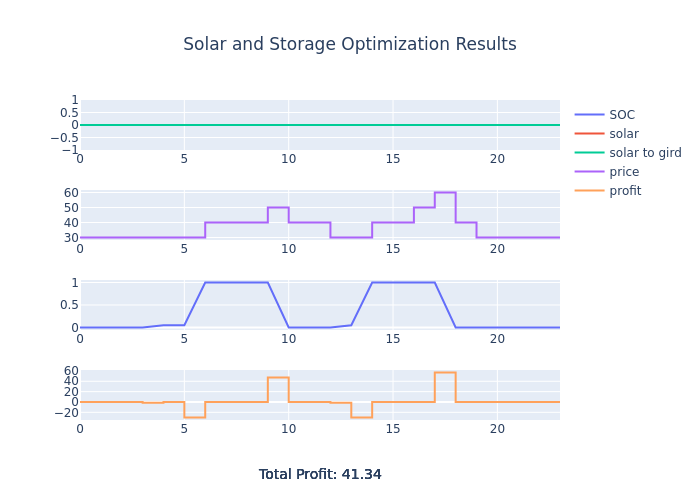
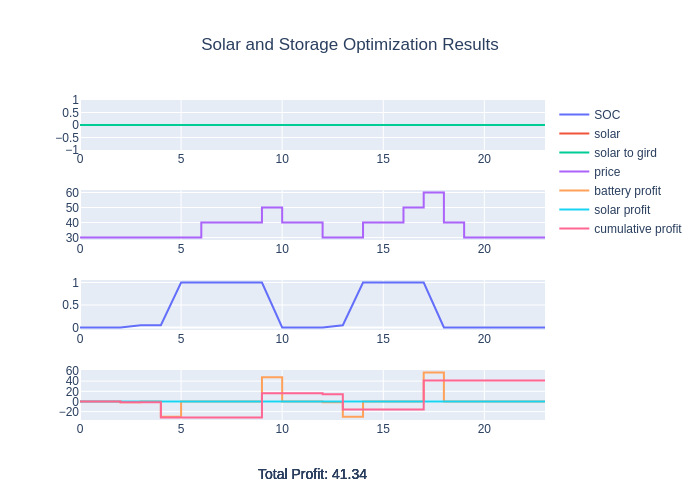
provide solar profit calc as well as display cumulative profit

diff --git a/solar_and_storage/solar_and_storage.py b/solar_and_storage/solar_and_storage.py
@@ -35,10 +35,10 @@ class SolarAndStorage:
         :param battery_capacity: the capacity of the battery [KWh]
         :param power_rating: the power raying of the battery [KW]
         :param battery_eta_discharge: the efficiency of the battery discharge,
-            should be between 0 and 1.
+            - should be between 0 and 1.
         :param battery_eta_charge: the efficiency of the battery charge,
-            should be between 0 and 1.  This only applies to grid power,
-            solar charging the battery is assumed to be 100% efficient.
+            - should be between 0 and 1, applies only to grid power.
+            - solar charging the battery is assumed to be 100% efficient.
         :param grid_connection_capacity: the amount of power that can be delivered to the grid
         """
         self.prob = None
@@ -169,16 +169,17 @@ class SolarAndStorage:
             self.battery_power_charge_cp_variable.value - self.power_discharge_cp_variable.value, 2
         )
         e_soc = np.round(self.battery_soc_cp_variable.value, 2)
-        profit = self.prices * (
+        battery_profit = self.prices * (
             self.power_discharge_cp_variable.value - self.battery_power_charge_cp_variable.value
         )
         solar_power_to_grid = self.solar_generation - self.power_solar_to_battery.value
+        solar_profit = self.prices * solar_power_to_grid
 
-        data = np.array([power, e_soc[:HOURS_PER_DAY], solar_power_to_grid, profit]).transpose()
+        data = np.array([power, e_soc[:HOURS_PER_DAY], solar_power_to_grid, battery_profit, solar_profit]).transpose()
 
         result_df = pd.DataFrame(
             data=data,
-            columns=["power", "e_soc", "solar_power_to_grid", "profit"],
+            columns=["power", "e_soc", "solar_power_to_grid", "battery_profit", "solar_profit"],
         )
         result_df.attrs["status"] = status
         result_df.attrs["message"] = "Optimization successful"
@@ -189,7 +190,7 @@ class SolarAndStorage:
         results = self.get_results()
         if results.attrs["status"] != "optimal":
             raise ValueError(f"Cannot calculate total profit: {results.attrs['message']}")
-        return sum(results["profit"])
+        return sum(results["battery_profit"]) + sum(results["solar_profit"])
 
     def get_figure(self) -> go.Figure:
         """Generate figure on successful optimization"""
@@ -211,7 +212,12 @@ class SolarAndStorage:
         power = result_df["power"]
         e_soc = result_df["e_soc"]
         solar_power_to_grid = result_df["solar_power_to_grid"]
-        profit = result_df["profit"]
+        battery_profit = result_df["battery_profit"]
+        solar_profit = result_df["solar_profit"]
+
+        # Compute cumulative profit
+        total_profit_series = battery_profit + solar_profit
+        cumulative_profit = np.cumsum(total_profit_series)
 
         # plot
         fig = make_subplots(rows=4, cols=1, subplot_titles=["Solar profile", "Price", "SOC", "Profit"])
@@ -221,7 +227,9 @@ class SolarAndStorage:
             go.Scatter(y=solar_power_to_grid, name="solar to gird", line_shape="hv"), row=1, col=1
         )
         fig.add_trace(go.Scatter(y=self.prices, name="price", line_shape="hv"), row=2, col=1)
-        fig.add_trace(go.Scatter(y=profit, name="profit", line_shape="hv"), row=4, col=1)
+        fig.add_trace(go.Scatter(y=battery_profit, name="battery profit", line_shape="hv"), row=4, col=1)
+        fig.add_trace(go.Scatter(y=solar_profit, name="solar profit", line_shape="hv"), row=4, col=1)
+        fig.add_trace(go.Scatter(y=cumulative_profit, name="cumulative profit", line_shape="hv"), row=4, col=1)
 
         # Add title
         fig.update_layout(

diff --git a/examples/battery_only.py b/examples/battery_only.py
@@ -1,4 +1,5 @@
 """ Run a battery only simulation for one day """
+# note this requires chrome to be installed
 
 import numpy as np
 
@@ -16,7 +17,6 @@ result_df = solar_and_storage.get_results()
 power = result_df["power"]
 e_soc = result_df["e_soc"]
 solar_power_to_grid = result_df["solar_power_to_grid"]
-profit = result_df["profit"]
 
 # plot
 fig = solar_and_storage.get_figure()

diff --git a/examples/battery_solar.py b/examples/battery_solar.py
@@ -17,7 +17,6 @@ result_df = solar_and_storage.get_results()
 power = result_df["power"]
 e_soc = result_df["e_soc"]
 solar_power_to_grid = result_df["solar_power_to_grid"]
-profit = result_df["profit"]
 
 # plot
 fig = solar_and_storage.get_figure()